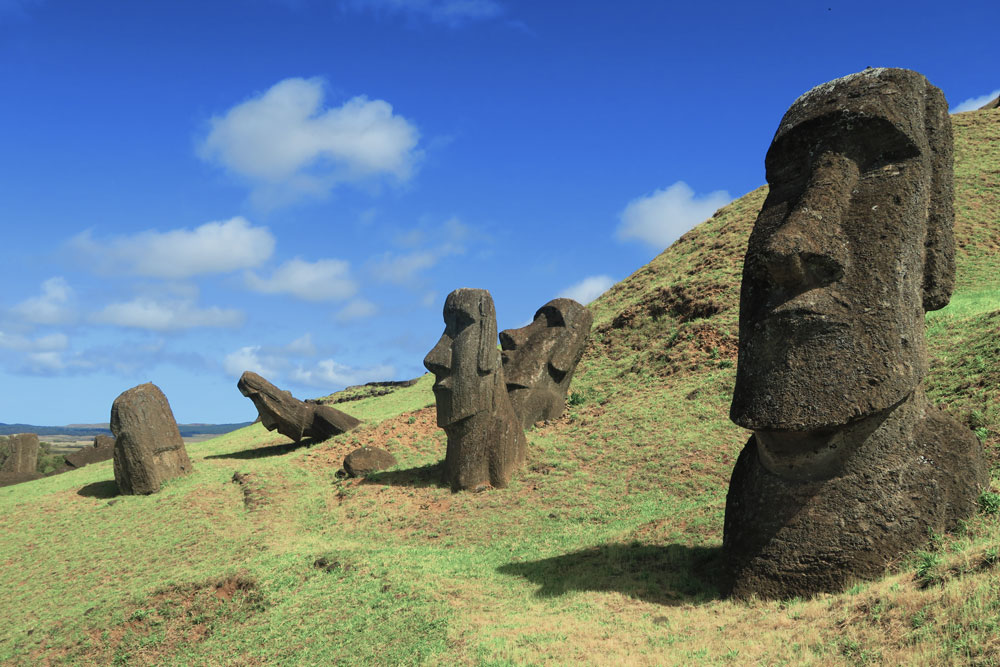
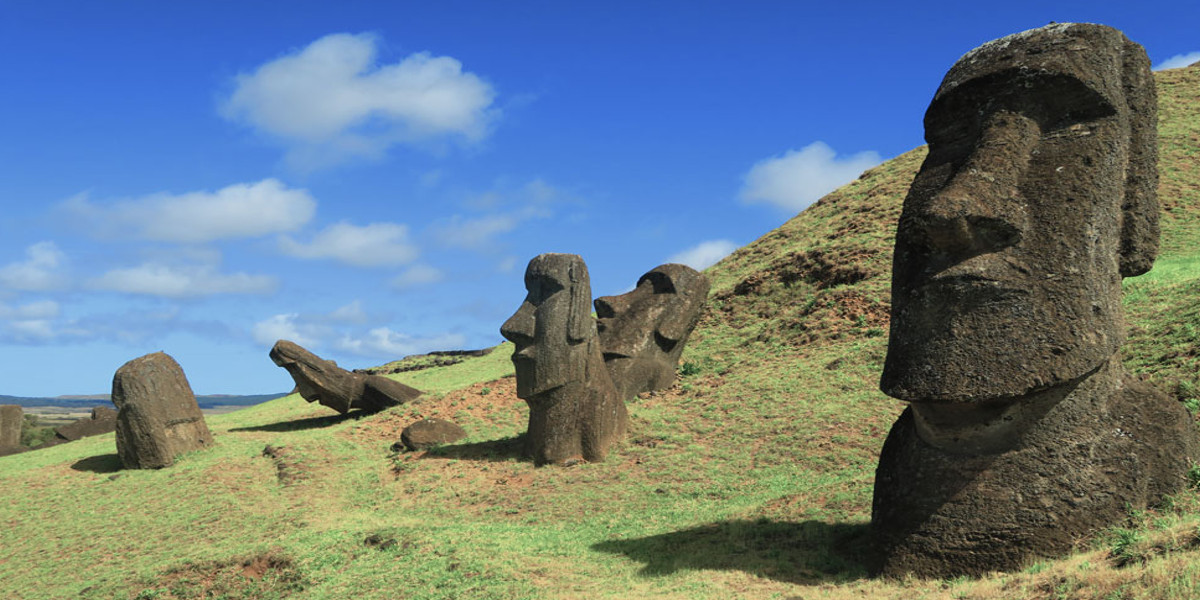
changing the size of images

diff --git a/south-america.html b/south-america.html
@@ -61,7 +61,7 @@
             </ol>
             <div class="carousel-inner">
                 <div class="carousel-item active">
-                    <img class="d-block w-100" src="https://via.placeholder.com/1400x500" alt="First slide">
+                    <img class="d-block w-100" src="Assets/Media/Imgs/america/south-america/Buenos-Aires-2.jpg" alt="First slide">
                     <div class="carousel-caption d-none d-md-block text-left bg-dark-semitransparent my-5">
                         <h3>Take Flight</h3>
                         <p>Lorem ipsum dolor sit amet, consectetur adipisicing elit. Beatae, consectetur cupiditate iusto molestiae quasi reiciendis tempore! Deleniti dicta, harum maxime nesciunt nisi quas tempora. Adipisci cupiditate deleniti deserunt? Nobis, nostrum.</p>
@@ -70,7 +70,7 @@
 
                 </div>
                 <div class="carousel-item">
-                    <img class="d-block w-100" src="https://via.placeholder.com/1400x500" alt="Second slide">
+                    <img class="d-block w-100" src="Assets/Media/Imgs/america/south-america/Easter-Island-2.jpg" alt="Second slide">
                     <div class="carousel-caption d-none d-md-block text-left bg-dark-semitransparent my-5">
                         <h3>Exotic City Trips</h3>
                         <p>Lorem ipsum dolor sit amet, consectetur adipisicing elit. Beatae, consectetur cupiditate iusto molestiae quasi reiciendis tempore! Deleniti dicta, harum maxime nesciunt nisi quas tempora. Adipisci cupiditate deleniti deserunt? Nobis, nostrum.</p>
@@ -78,7 +78,7 @@
                     </div>
                 </div>
                 <div class="carousel-item">
-                    <img class="d-block w-100" src="https://via.placeholder.com/1400x500" alt="Third slide">
+                    <img class="d-block w-100" src="Assets/Media/Imgs/america/south-america/Buenos-Aires-3.jpg" alt="Third slide">
                     <div class="carousel-caption d-none d-md-block text-left bg-dark-semitransparent my-5">
                         <h3>Hike Through Nature</h3>
                         <p>Lorem ipsum dolor sit amet, consectetur adipisicing elit. Beatae, consectetur cupiditate iusto molestiae quasi reiciendis tempore! Deleniti dicta, harum maxime nesciunt nisi quas tempora. Adipisci cupiditate deleniti deserunt? Nobis, nostrum.</p>
